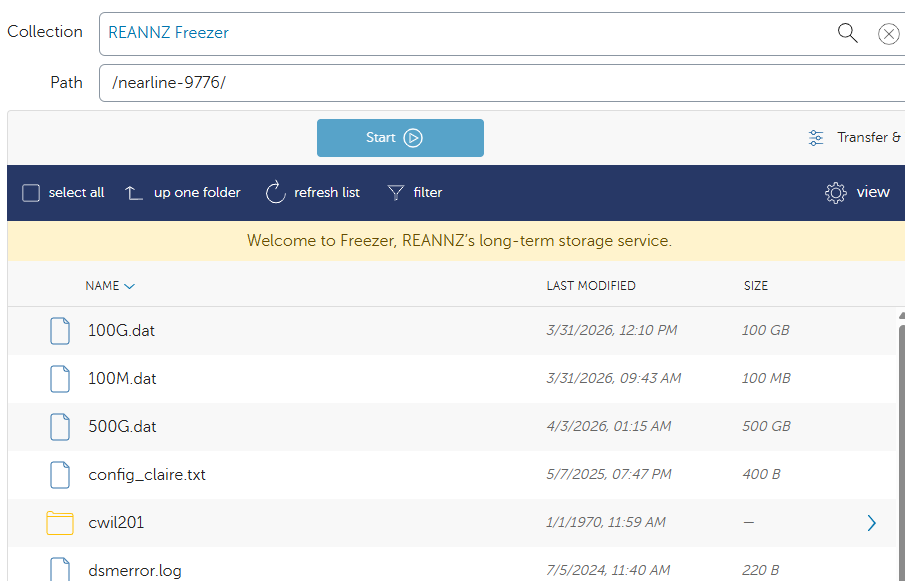
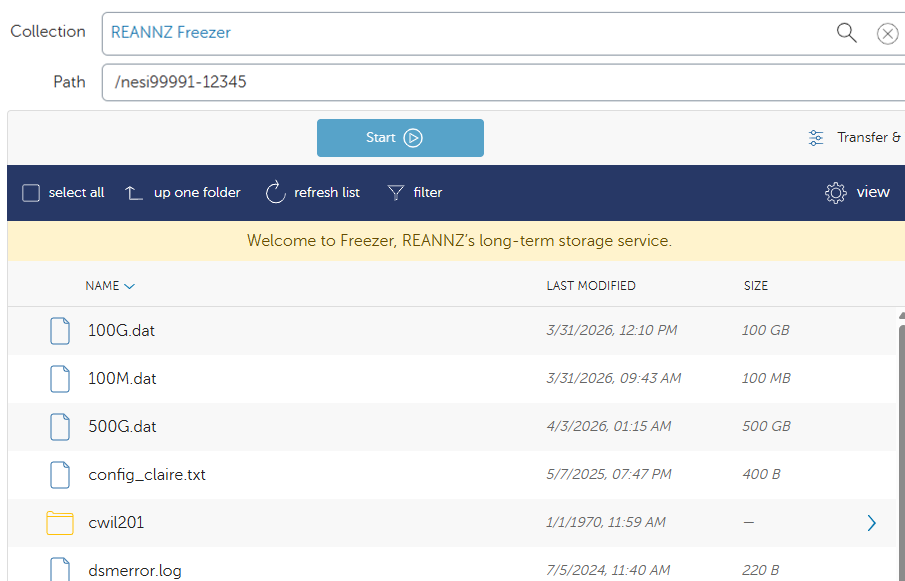
Edit Freezer access instructions

Changed region(s): [[0.0, 0.031, 1.0, 0.1859]]

diff --git a/docs/Data_Transfer/Globus/Data_Transfer_to_Freezer.md b/docs/Data_Transfer/Globus/Data_Transfer_to_Freezer.md
@@ -59,10 +59,10 @@ Note that modification times are preserved only for files.
 
 This is expected behaviour and does not affect the integrity or accessibility of your archived data.
 
-1. Go to the File Manager on the left hand menu and search for the collection `{{ globus_collection_freezer}}`.
+1. Go to the File Manager on the left hand menu and search for the collection `{{ globus_collection_freezer}}`. A list of buckets that you are the owner of, will be displayed here/below. If the bucket you wish to access is not displayed, please enter it in under `Path`.
     ![Globus_Freezer_EP.png](../../assets/images/Globus_Freezer_EP.png)
 
-2. Under 'Path', type in your Freezer bucket e.g., `/nearline-9776/` and press <kbd>Enter</kbd>. You should now see the contents of your bucket.
+2. Under 'Path', type in your Freezer bucket e.g., `/nesi99991-12345/` and press <kbd>Enter</kbd>. You should now see the contents of your bucket.
 ![Globus_Freezer_Load_Bucket.png](../../assets/images/Globus_Freezer_Load_Bucket.png)
 
 If you initiate a transfer of offline data (only on tape - Glacier) from Freezer, the data will be automatically staged from tape before the transfer begins.
